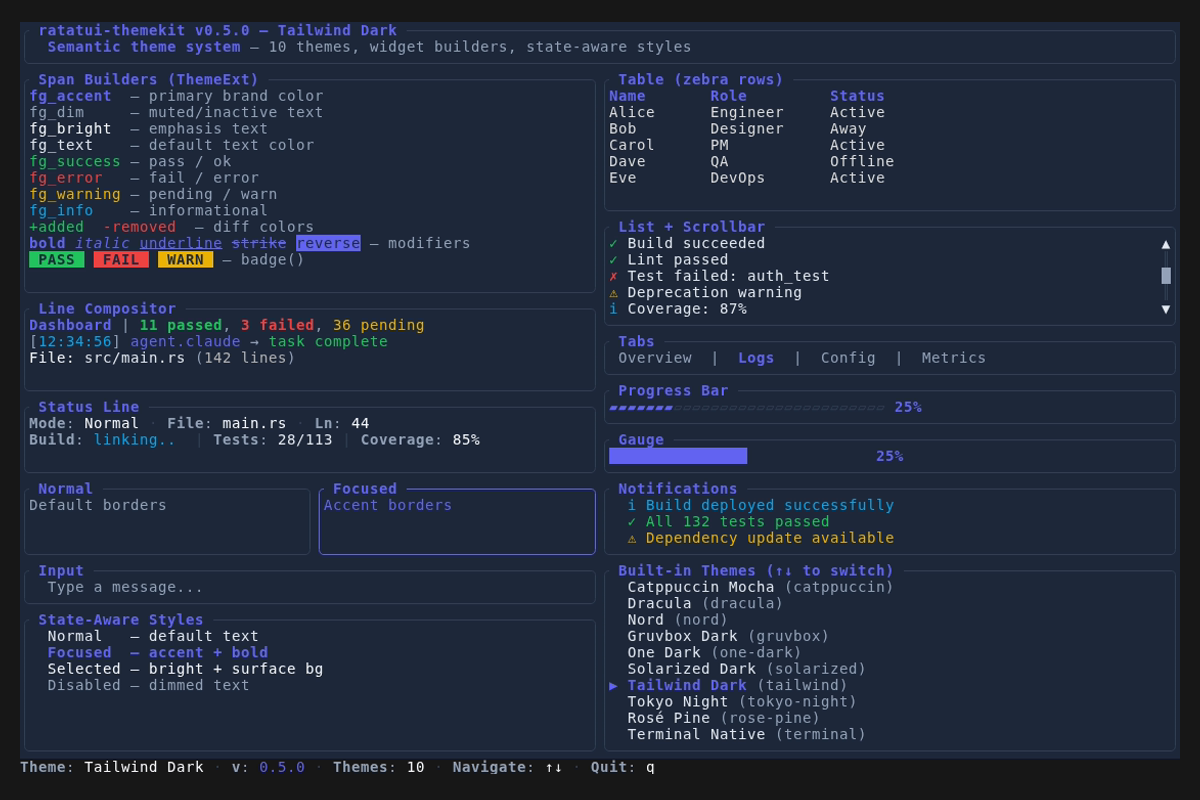
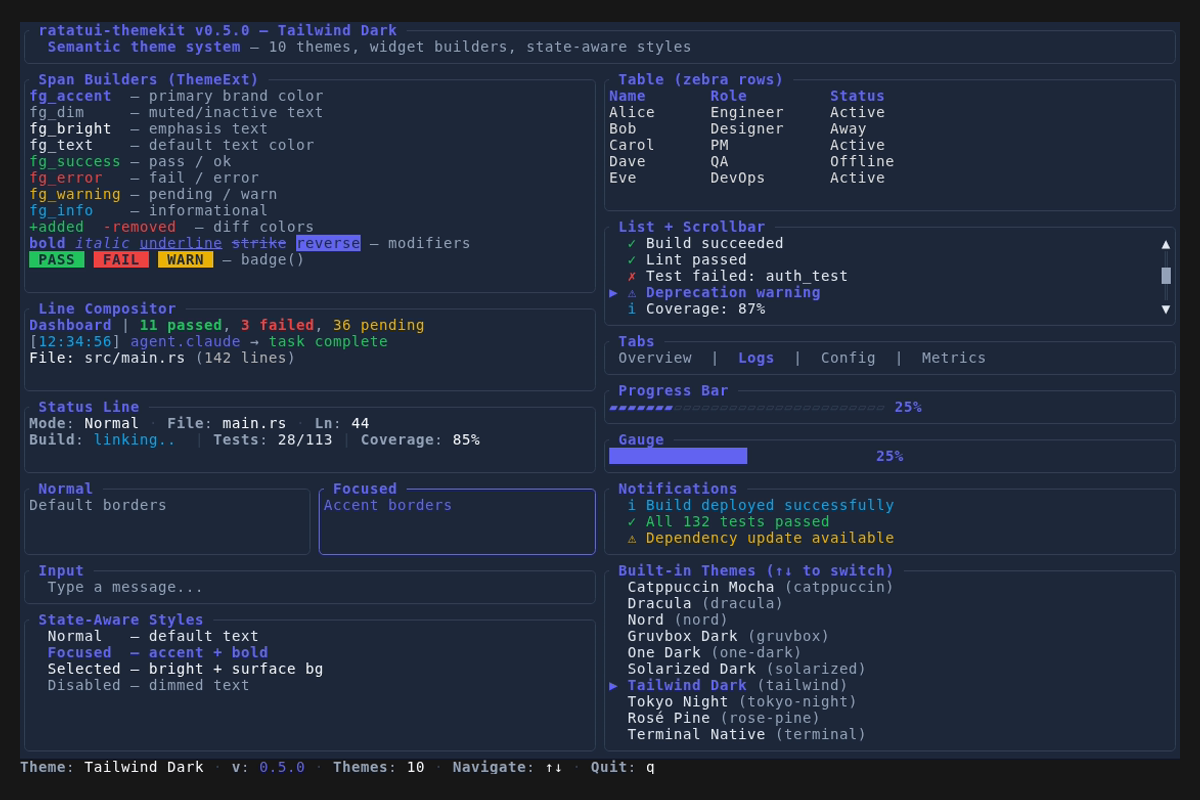
docs: animate list scroll + scrollbar in showcase, regenerate assets

Changed region(s): [[0.4933, 0.2812, 0.7092, 0.4062]]

diff --git a/examples/showcase.rs b/examples/showcase.rs
@@ -186,7 +186,7 @@ fn render_body(frame: &mut Frame<'_>, area: Rect, t: &dyn Theme, state: &AnimSta
         .split(columns[1]);
 
     render_table(frame, right[0], t);
-    render_list(frame, right[1], t);
+    render_list(frame, right[1], t, state);
     render_tabs(frame, right[2], t, state);
     render_bar(frame, right[3], t, state);
     render_gauge(frame, right[4], t, state);
@@ -420,7 +420,7 @@ fn render_table(frame: &mut Frame<'_>, area: Rect, t: &dyn Theme) {
     frame.render_widget(table, area);
 }
 
-fn render_list(frame: &mut Frame<'_>, area: Rect, t: &dyn Theme) {
+fn render_list(frame: &mut Frame<'_>, area: Rect, t: &dyn Theme, state: &AnimState) {
     let block = t.block(" List + Scrollbar ").build();
     let ls = t.list_styles();
     let sbs = t.scrollbar_styles();
@@ -484,6 +484,9 @@ fn render_list(frame: &mut Frame<'_>, area: Rect, t: &dyn Theme) {
         ),
     ];
 
+    let total = items.len();
+    let scroll_pos = (state.tick / 15) as usize % total;
+
     let inner = block.inner(area);
     frame.render_widget(block, area);
 
@@ -491,14 +494,15 @@ fn render_list(frame: &mut Frame<'_>, area: Rect, t: &dyn Theme) {
         .highlight_style(ls.highlight)
         .highlight_symbol(ls.symbol)
         .style(ls.base);
-    frame.render_widget(list, inner);
+    let mut list_state = ratatui::widgets::ListState::default().with_selected(Some(scroll_pos));
+    frame.render_stateful_widget(list, inner, &mut list_state);
 
-    // Scrollbar on the right edge
+    // Scrollbar synced with selection
     let scrollbar =
         ratatui::widgets::Scrollbar::new(ratatui::widgets::ScrollbarOrientation::VerticalRight)
             .track_style(sbs.track)
             .thumb_style(sbs.thumb);
-    let mut scroll_state = ratatui::widgets::ScrollbarState::new(8).position(2);
+    let mut scroll_state = ratatui::widgets::ScrollbarState::new(total).position(scroll_pos);
     frame.render_stateful_widget(scrollbar, inner, &mut scroll_state);
 }
 
